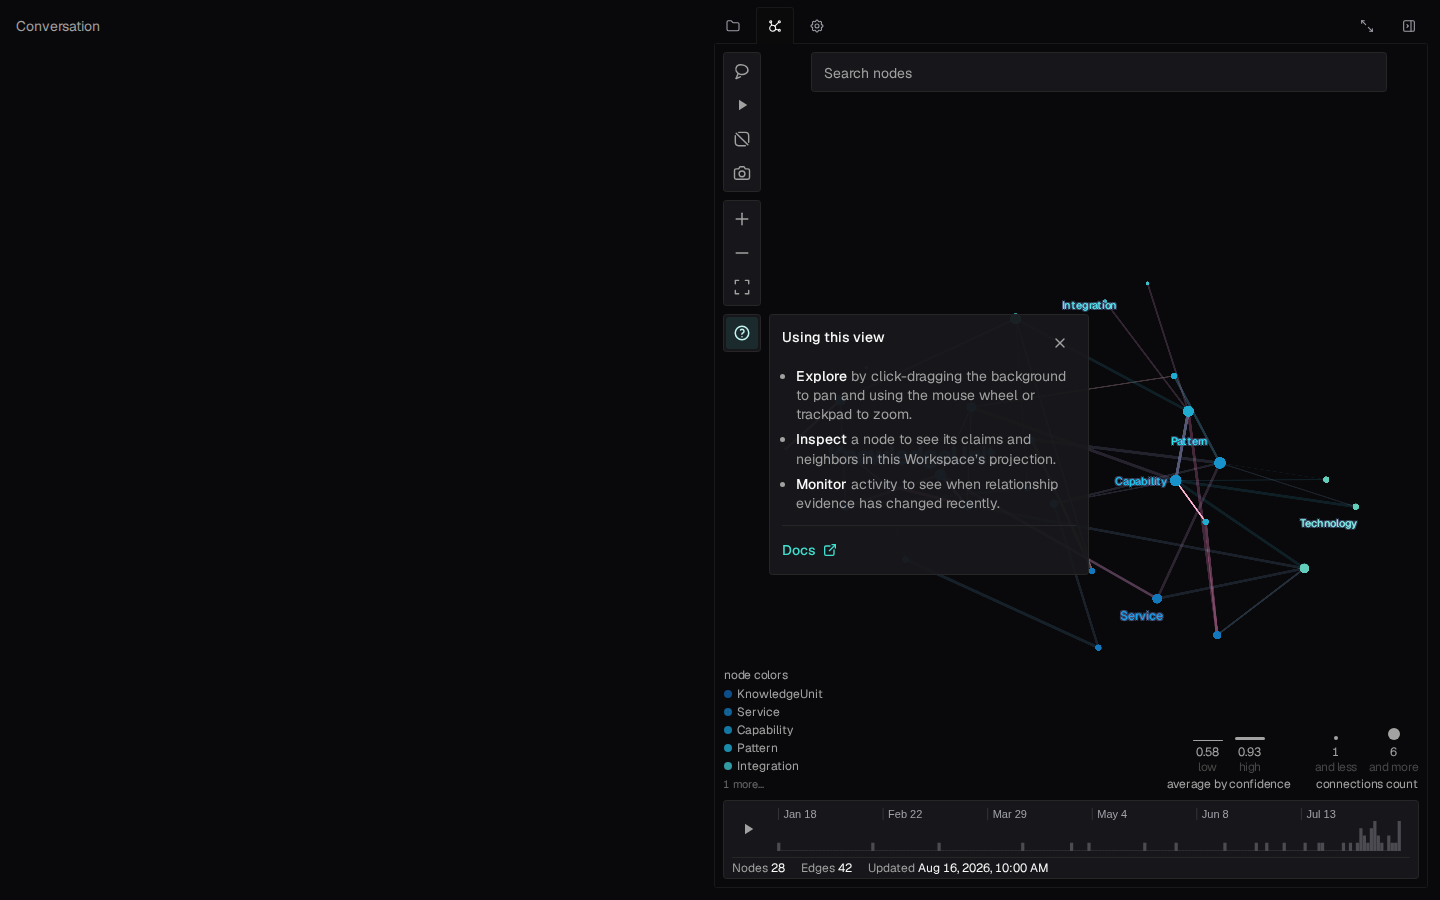
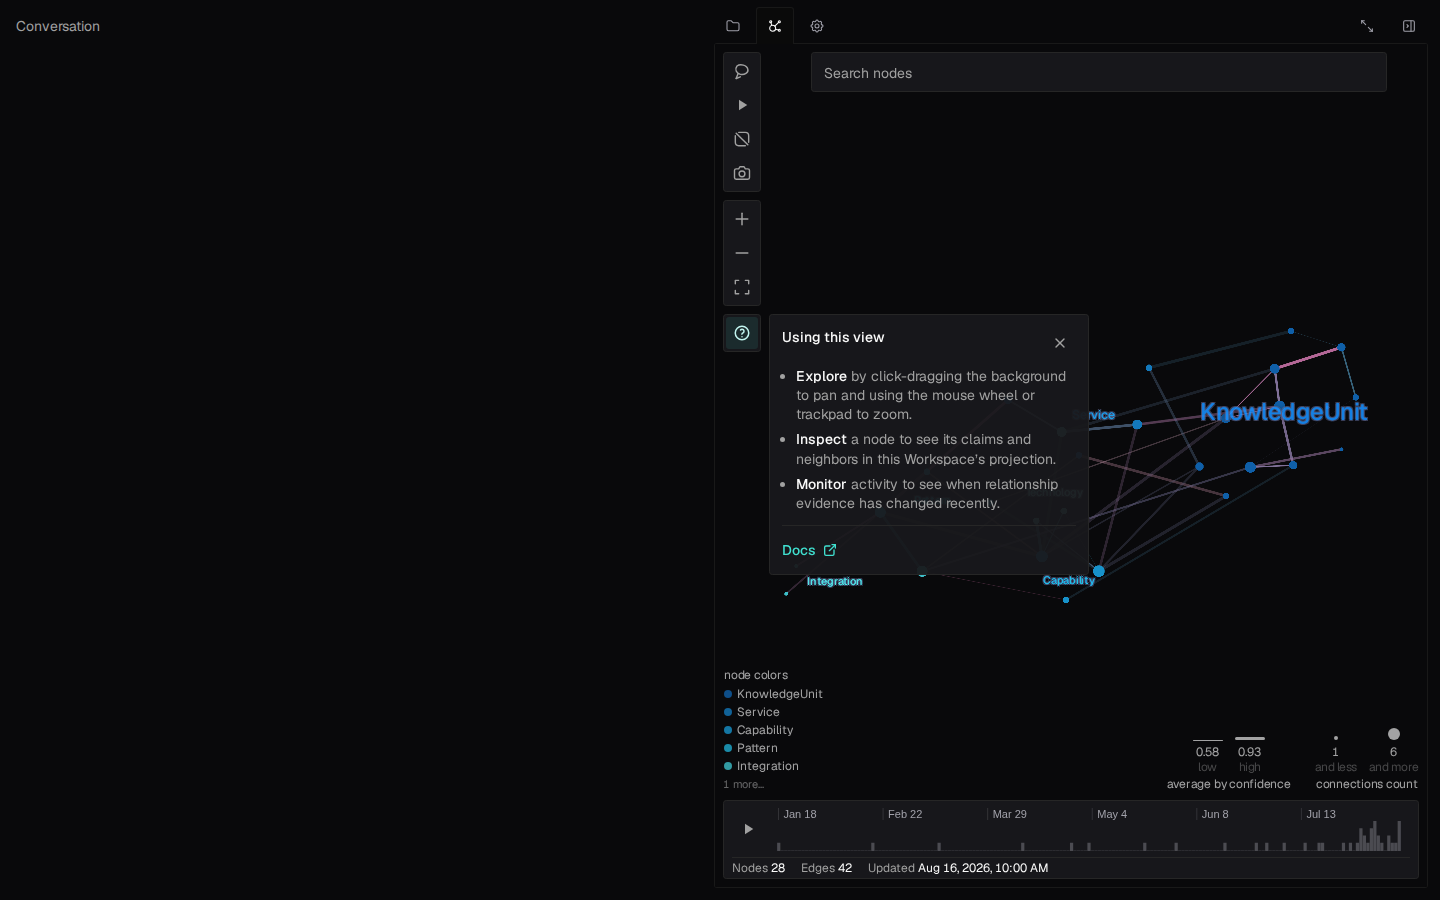
Storybook: capture the graph pane baselines again after the socket handler (CTX-1319)
The play runner seeds Math.random, and the new socket handler of the
preview takes a random id when the preview loads. So the graph layout
starts from other positions. The graph is the same.

diff --git a/apps/ui/src/lib/unmocked-request.stories.tsx b/apps/ui/src/lib/unmocked-request.stories.tsx
@@ -11,9 +11,10 @@ import { expect } from "storybook/test"
 // This play proves the preview part in the real browser: an API request
 // with no handler is recorded and does not reach the network, and a static
 // asset goes to the network. A WebSocket that no handler matches is recorded
-// and closed, also when the story mocks another socket. At the end the play empties the record, so the
-// story itself passes. Storybook reads stories from src only, so this
-// story is in src/lib with the other Testing stories (play-host).
+// and closed, also when the story mocks another socket. At the end the play
+// empties the record, so the story itself passes. Storybook reads stories
+// from src only, so this story is in src/lib with the other Testing stories
+// (play-host).
 
 type UnhandledWindow = Window & { __ctxpipeUnhandledRequests?: string[] }
 
